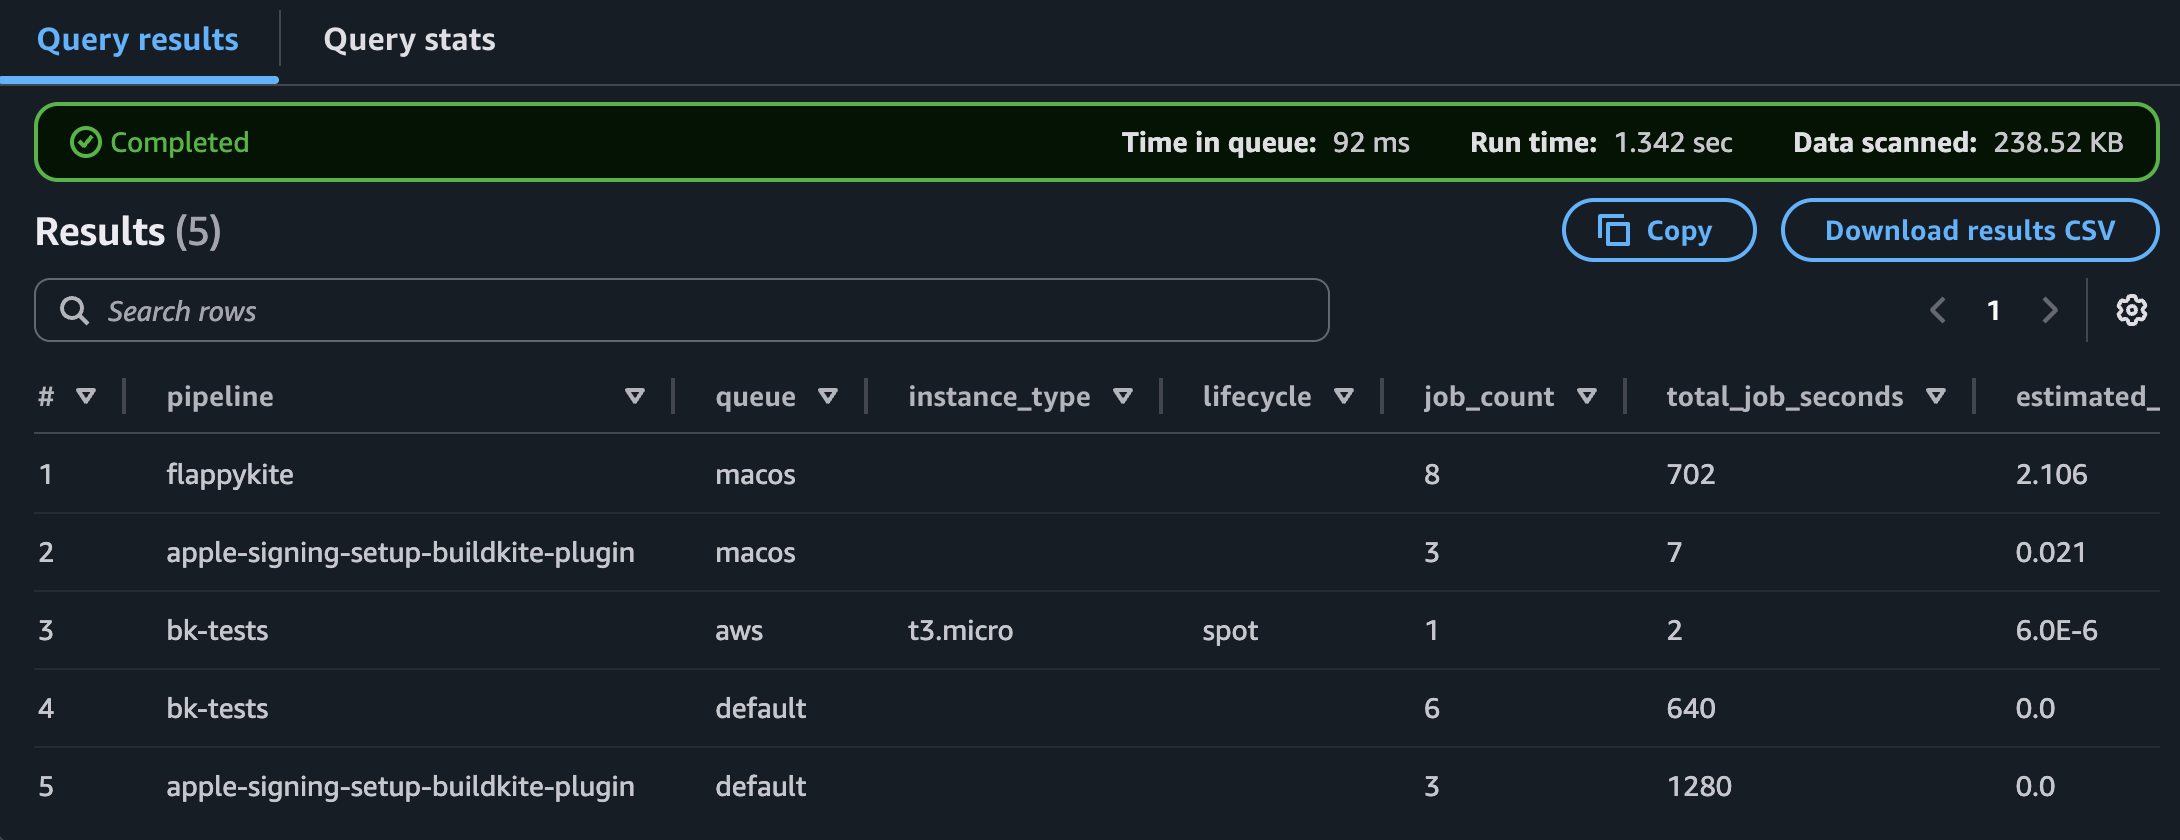
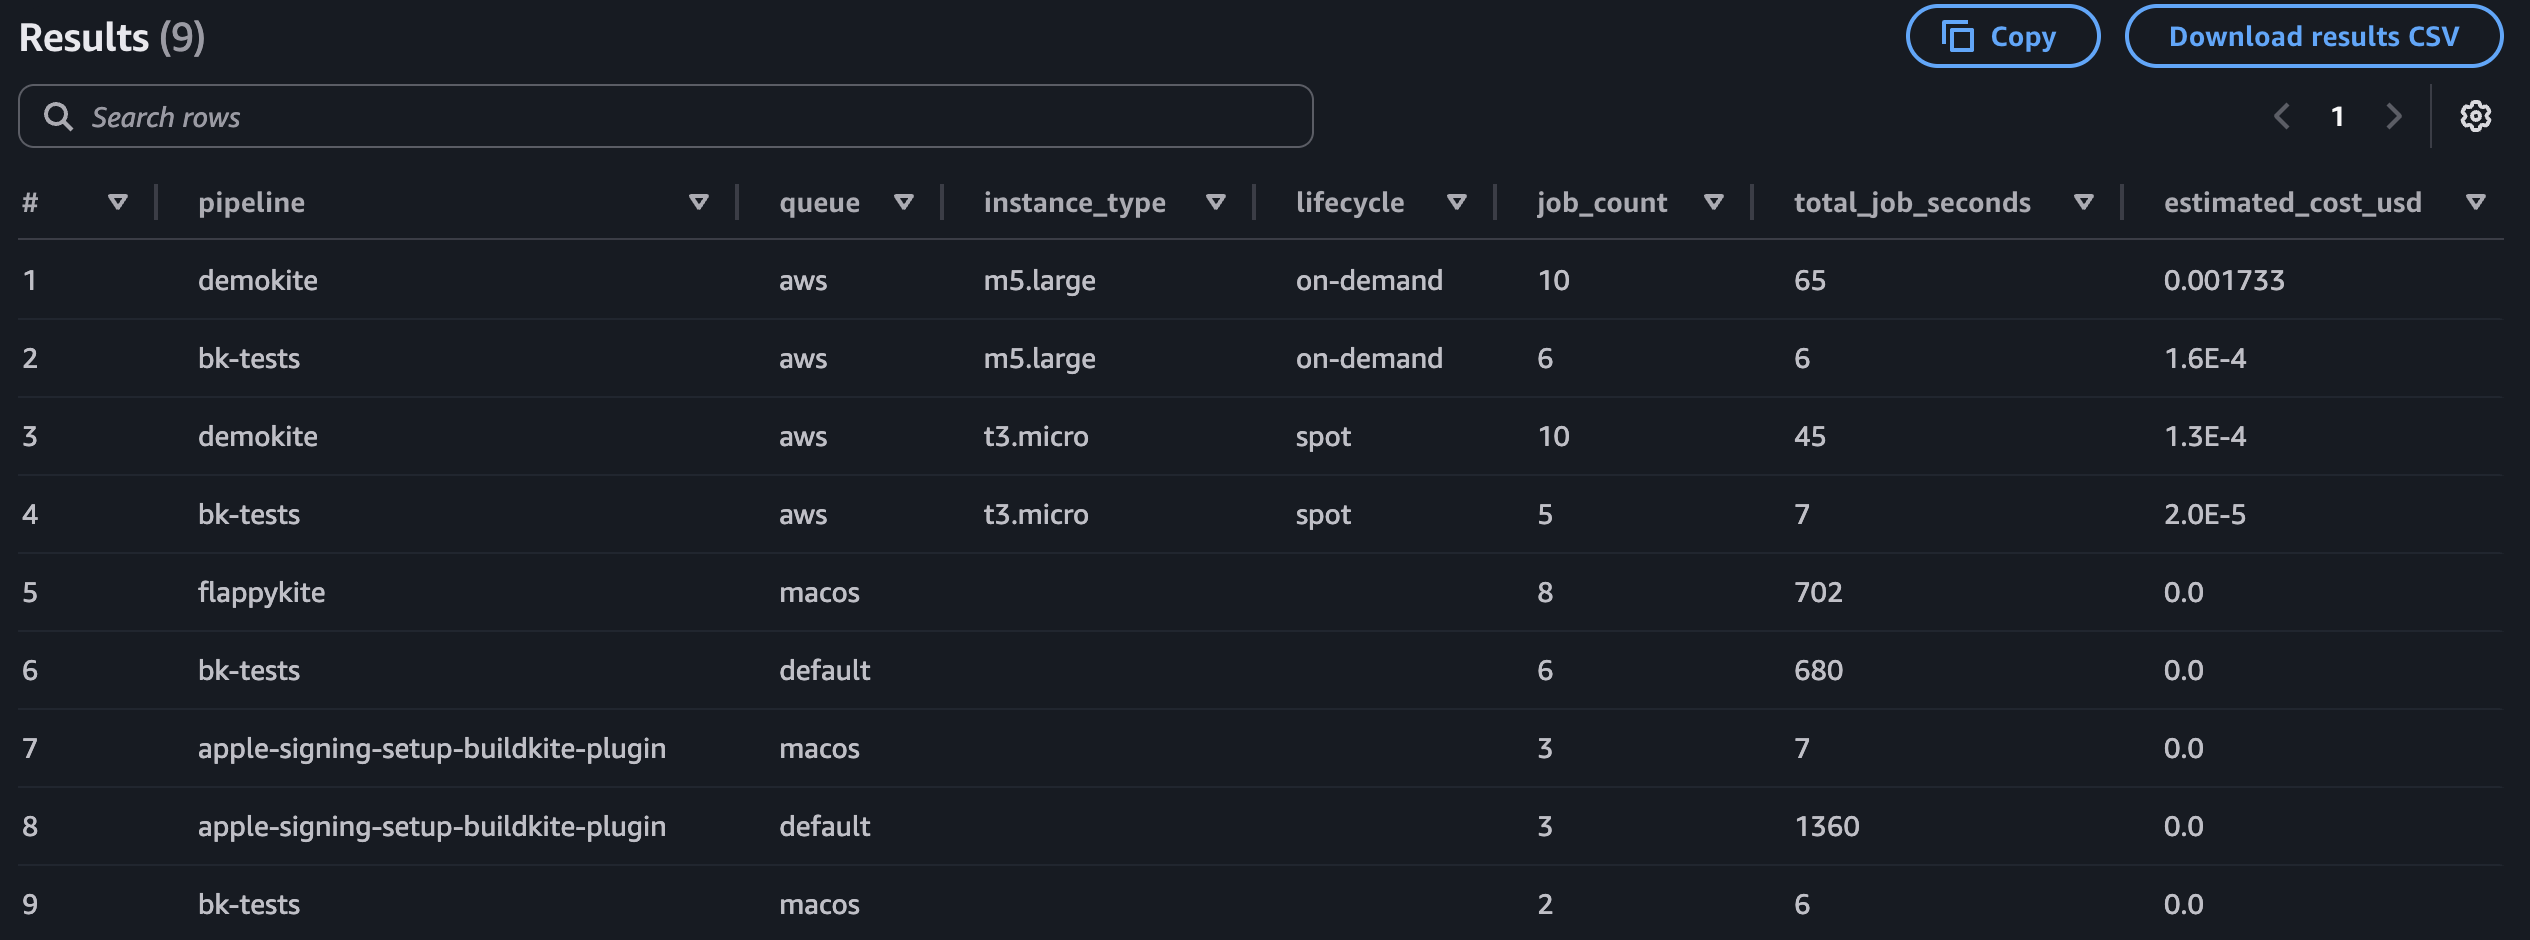
Clean up SQL query, update screenshot, and add production guidance

diff --git a/pages/pipelines/tutorials/attributing_aws_agent_costs.md b/pages/pipelines/tutorials/attributing_aws_agent_costs.md
@@ -514,68 +514,62 @@ GROUP BY detailtype
 The following query joins job events with agent lifecycle events to calculate estimated compute cost. This query maps instance types to hourly rates and multiplies by job duration:
 
 ```sql
-SELECT
+WITH job_agent AS (
+  SELECT
     j.detail.pipeline.slug AS pipeline,
-    TRY(
-      split(
-        filter(a.detail.agent.meta_data, m -> m LIKE 'queue=%')[1],
-        '='
-      )[2]
-    ) AS queue,
-    TRY(
-      split(
-        filter(a.detail.agent.meta_data, m -> m LIKE 'aws:instance-type=%')[1],
-        '='
-      )[2]
-    ) AS instance_type,
-    TRY(
-      split(
-        filter(a.detail.agent.meta_data, m -> m LIKE 'aws:instance-life-cycle=%')[1],
-        '='
-      )[2]
-    ) AS lifecycle,
-    COUNT(DISTINCT j.detail.job.uuid) AS job_count,
+    j.detail.job.uuid AS job_uuid,
+    j.detail.job.started_at AS started_at,
+    j.detail.job.finished_at AS finished_at,
+    TRY(split(filter(a.detail.agent.meta_data, m -> m LIKE 'queue=%')[1], '=')[2])
+      AS queue,
+    TRY(split(filter(a.detail.agent.meta_data, m -> m LIKE 'aws:instance-type=%')[1], '=')[2])
+      AS instance_type,
+    TRY(split(filter(a.detail.agent.meta_data, m -> m LIKE 'aws:instance-life-cycle=%')[1], '=')[2])
+      AS lifecycle
+  FROM buildkite.buildkite_job_finished j
+  JOIN buildkite.buildkite_agent_lifecycle a
+    ON j.detail.agent.uuid = a.detail.agent.uuid
+  WHERE j.detailtype = 'Job Finished'
+    AND a.detailtype = 'Agent Connected'
+    AND j.detail.job.passed = true
+)
+
+SELECT
+    pipeline,
+    queue,
+    instance_type,
+    lifecycle,
+    COUNT(DISTINCT job_uuid) AS job_count,
     SUM(
-      date_diff(
-        'second',
-        parse_datetime(j.detail.job.started_at, 'yyyy-MM-dd HH:mm:ss z'),
-        parse_datetime(j.detail.job.finished_at, 'yyyy-MM-dd HH:mm:ss z')
+      date_diff('second',
+        parse_datetime(started_at, 'yyyy-MM-dd HH:mm:ss z'),
+        parse_datetime(finished_at, 'yyyy-MM-dd HH:mm:ss z')
       )
     ) AS total_job_seconds,
     ROUND(
       SUM(
-        date_diff(
-          'second',
-          parse_datetime(j.detail.job.started_at, 'yyyy-MM-dd HH:mm:ss z'),
-          parse_datetime(j.detail.job.finished_at, 'yyyy-MM-dd HH:mm:ss z')
+        date_diff('second',
+          parse_datetime(started_at, 'yyyy-MM-dd HH:mm:ss z'),
+          parse_datetime(finished_at, 'yyyy-MM-dd HH:mm:ss z')
         )
       ) / 3600.0
-      * CASE
-          WHEN TRY(split(filter(a.detail.agent.meta_data, m -> m LIKE 'aws:instance-type=%')[1], '=')[2]) = 't3.micro'  THEN 0.0104
-          WHEN TRY(split(filter(a.detail.agent.meta_data, m -> m LIKE 'aws:instance-type=%')[1], '=')[2]) = 't3.small'  THEN 0.0208
-          WHEN TRY(split(filter(a.detail.agent.meta_data, m -> m LIKE 'aws:instance-type=%')[1], '=')[2]) = 't3.medium' THEN 0.0416
-          WHEN TRY(split(filter(a.detail.agent.meta_data, m -> m LIKE 'aws:instance-type=%')[1], '=')[2]) = 'm5.large'  THEN 0.096
-          WHEN TRY(split(filter(a.detail.agent.meta_data, m -> m LIKE 'aws:instance-type=%')[1], '=')[2]) = 'm5.xlarge' THEN 0.192
+      * CASE instance_type
+          WHEN 't3.micro'  THEN 0.0104
+          WHEN 't3.small'  THEN 0.0208
+          WHEN 't3.medium' THEN 0.0416
+          WHEN 'm5.large'  THEN 0.096
+          WHEN 'm5.xlarge' THEN 0.192
           ELSE 0
         END,
       6
     ) AS estimated_cost_usd
-FROM buildkite.buildkite_job_finished j
-JOIN buildkite.buildkite_agent_lifecycle a
-  ON j.detail.agent.uuid = a.detail.agent.uuid
-WHERE j.detailtype = 'Job Finished'
-  AND a.detailtype = 'Agent Connected'
-  AND j.detail.job.passed = true
-GROUP BY
-    j.detail.pipeline.slug,
-    TRY(split(filter(a.detail.agent.meta_data, m -> m LIKE 'queue=%')[1], '=')[2]),
-    TRY(split(filter(a.detail.agent.meta_data, m -> m LIKE 'aws:instance-type=%')[1], '=')[2]),
-    TRY(split(filter(a.detail.agent.meta_data, m -> m LIKE 'aws:instance-life-cycle=%')[1], '=')[2])
+FROM job_agent
+GROUP BY pipeline, queue, instance_type, lifecycle
 ORDER BY estimated_cost_usd DESC;
 ```
 
 > 🚧 Replace the hourly rates
-> The `CASE` statement in this query uses example EC2 on-demand pricing (for example, `... THEN 0.0104`). Replace these values with your actual rates, including any reserved instance or spot pricing you use.
+> The `CASE` statement in this query uses example EC2 on-demand pricing (for example, `... THEN 0.0104`). Replace these values with your actual rates, including any reserved instance or spot pricing you use. Jobs running on instance types not listed in the `CASE` statement will show `0` for estimated cost.
 
 Example output:
 
@@ -584,5 +578,6 @@ Example output:
 ## Next steps
 
 - To map queues to teams, create a lookup table based on your Elastic CI Stack and queue naming conventions, then join it with the query results.
+- For a production implementation, consider moving field extraction upstream so that values like queue, instance type, and lifecycle are written as top-level columns during ingestion rather than parsed from nested JSON at query time.
 - To capture more granular cost data, consider adding [OpenTelemetry](/docs/pipelines/integrations/observability/opentelemetry) alongside EventBridge, which includes the build author in its events.
 - For details on available EventBridge events and their payloads, see the [Amazon EventBridge integration](/docs/pipelines/integrations/observability/amazon-eventbridge) reference.
